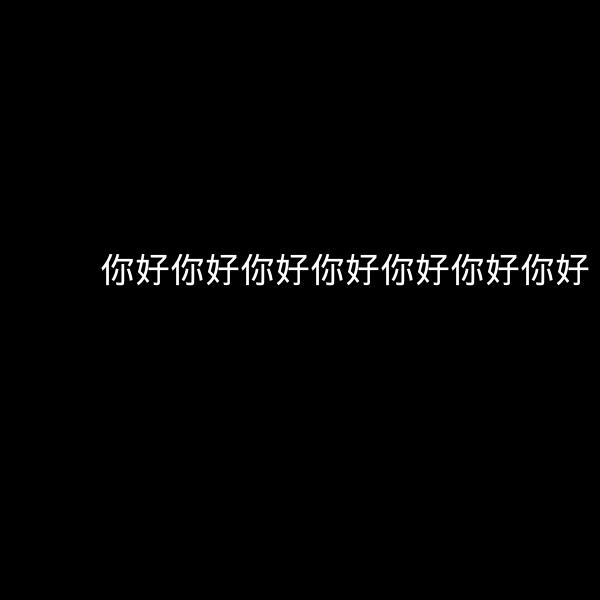
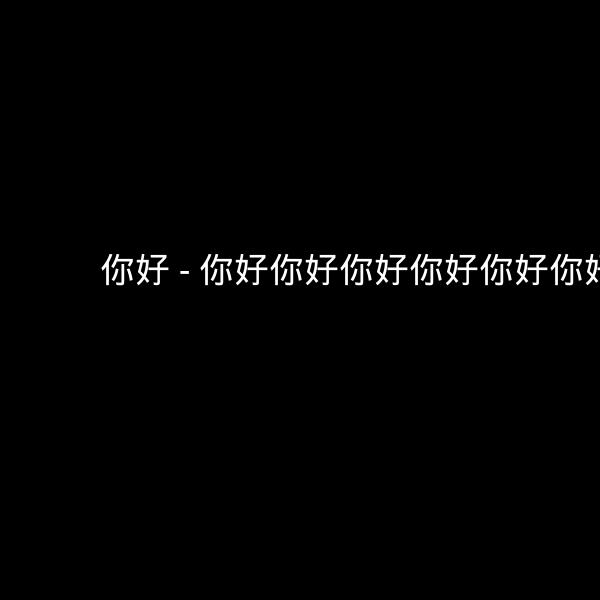
Split artist with song title

Changed region(s): [[0.27, 0.42, 1.0, 0.48]]

diff --git a/MyPythonPrograms/Mp3NameAndTagFactory4AsciiOnly/Mp3NameAndTagFactory4AsciiOnly.py b/MyPythonPrograms/Mp3NameAndTagFactory4AsciiOnly/Mp3NameAndTagFactory4AsciiOnly.py
@@ -15,10 +15,16 @@ def main():
     img = drawBlackEmpty()
 
     # text = u"你好 - ひらがな - 히라가나"
-    text = u"你好你好你好你好你好你好你好"
+    text = u"你好 - 你好你好你好你好你好你好你好"
 
     num_of_lines = findNumberOfLines(text)
     print(num_of_lines)
+    print(text.split(' - ')[1:])
+
+    if num_of_lines > 1:
+        artist = text.split(' - ')[:1]
+        song_name = text.split(' - ')[1:]
+
 
     writeTextOnImage(img, text, middle)
     saveImage(img, 'hello')
